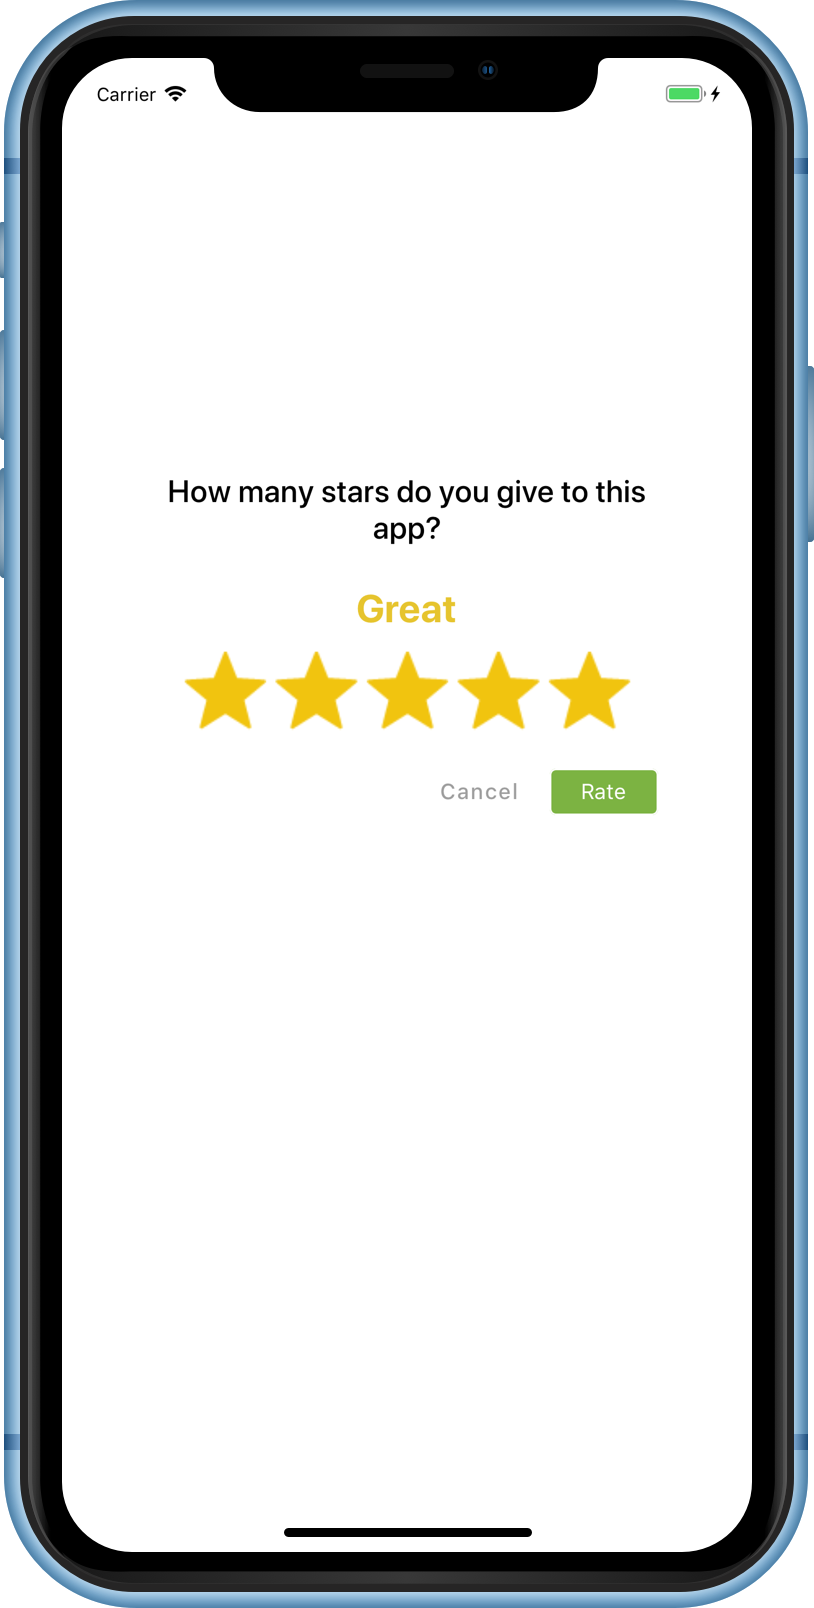
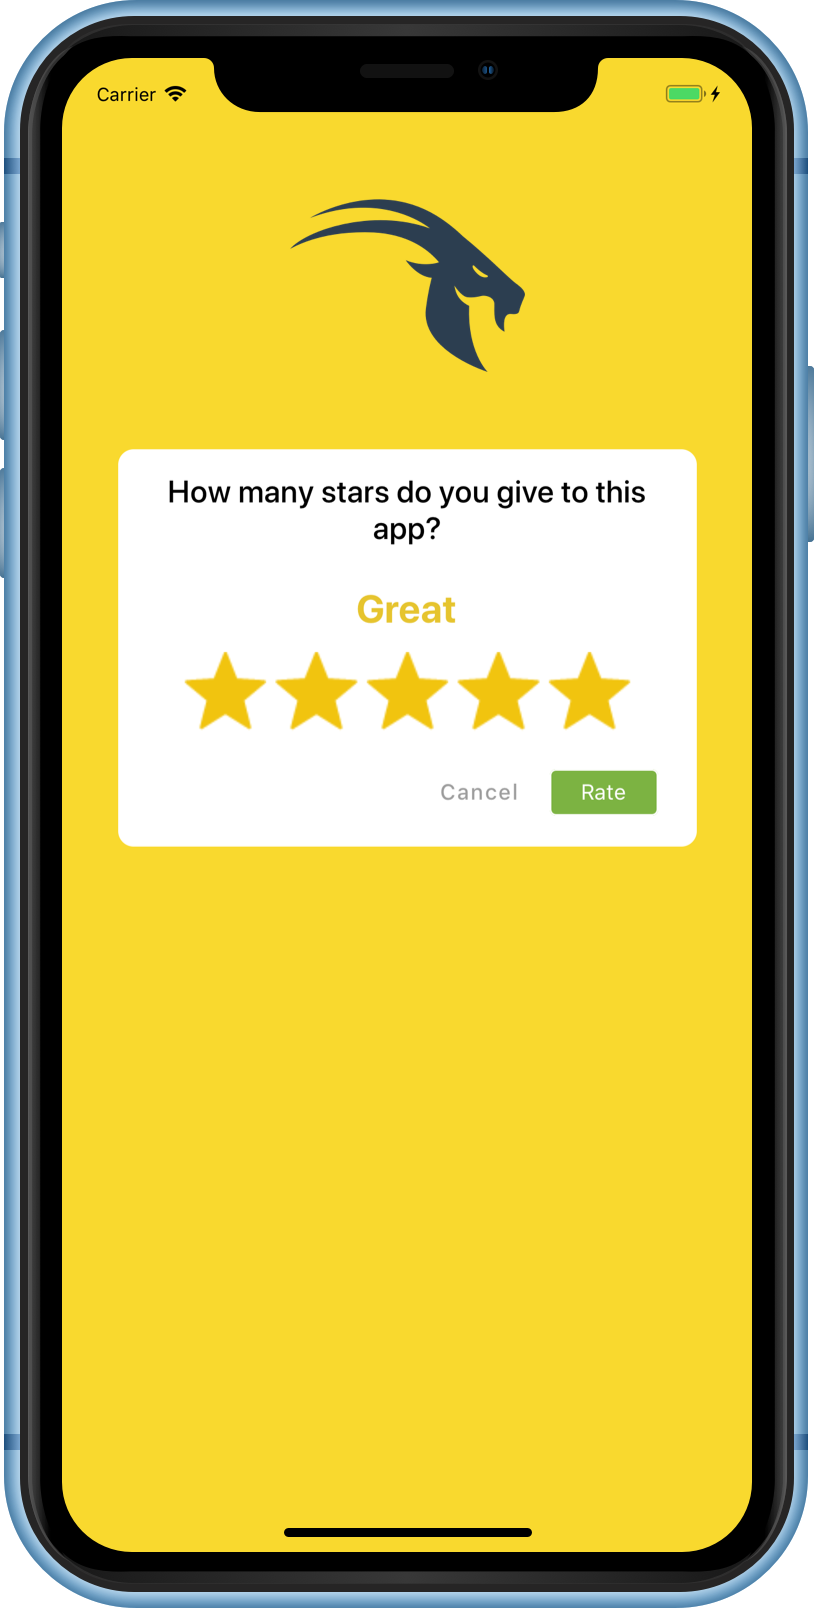
screenshoot changed & readme fix

diff --git a/README.md b/README.md
@@ -55,8 +55,19 @@ $ yarn add react-native-store-rating
 ## Usage
 Users are presented with a modal allowing them to choose amount of stars which is defined with `count` props.
 
-After prompting rate users redirect to App store or Google Market, if they give more then stars which is defined on `commentOpenRating`, otherwise comment pop up will open and allow them to write a review.
+The star rate taken from the users is compared to the value defined in "commentOpenRating". If this value is greater than the value of "commentOpenRating", the user is directed to the App store or Google Play Store. If it is equal and smaller, comment popup will be opened and users will be allowed to type comment.
 
+`Example: let's say we defined 3 to commentOpenRating prop`
+```javascript
+<RateModal
+	commentOpenRating={3}
+	// ... props
+/>
+```
+
+`User redirect to App Store or Google Play Store when the given star rate is greater then 3.`
+
+`Comment modal will be opened if the given star rate equal or less then 3.`
 
 
 ## Example
@@ -83,14 +94,14 @@ export default class example extends Component {
                     backgroundColor: '#000',
                     paddingHorizontal: 30,
                 }}
-                ratingChange={(e: number) => {
+                ratingOnChange={(e: number) => {
                     console.log('change rating', e);
                 }}
                 onClosed={() => {
                     console.log('pressed cancel button...')
                 }}
                 sendContactUsForm={(state: object) => {
-                    // object = {
+                    // state = {
                     // 	isModalOpen: true,
                     // 	rating: 3,
                     // 	review: "Lorem ipsum dolor sit amet...",
@@ -118,29 +129,21 @@ export default class example extends Component {
 | **defaulRating** | `number` | If no number set, it will determine 3 stars rating.               |  `5` | &nbsp;&nbsp; false
 | **showRating**      | `boolean` | Shows rating on modal. | ` true`   | &nbsp;&nbsp; false
 | **sendBtnText** | `string`  | The text of send button. | `"Send"` |  &nbsp;&nbsp; false
-| **placeHolderText** | `string` | The placeholder text. | `"You can write your comments here"` | &nbsp;&nbsp; false
-| **transparent** |`string` | ? | `true` | &nbsp;&nbsp; false
+| **placeHolderText** | `string` | User review modal placeholder text. | `"You can write your comments here"` | &nbsp;&nbsp; false
+| **transparent** |`boolean` | Background style | `true` | &nbsp;&nbsp; false
 | **reviews** | `array` | The array of rating title. | `['Terrible', 'Bad', 'Okay', 'Good', 'Great']` | &nbsp;&nbsp; false
-| **nonComment** | `string`  | ? | `Please specify your opinion.` | &nbsp;&nbsp; false
-| **androidUrl** | `string`  |  <br> `example: `'market://details?id=${APP_PACKAGE_NAME}'| `? ` | &nbsp;&nbsp; false
-| **iosUrl** | `string`  | ? | `?` | &nbsp;&nbsp; false
+| **nonComment** | `string`  | User review comment box validation text | `"Please specify your opinion."` | &nbsp;&nbsp; false
 | **isModalOpen** | `boolean`  | Control if the modal open or not. | `false` | &nbsp;&nbsp; false
 | **commentOpenRating** | `number`  | ? | `3` | &nbsp;&nbsp; false
-| **style** | `Object`  | An object containing the styles objects to style the modal. | `?` | &nbsp;&nbsp; false
-| **ratingOnChange** | `Function`  | Function  fired when the rating has changed.| `?` | &nbsp;&nbsp; false
-| **onClosed** | `Function`  | Function fired when the modal has closed.| `?` | &nbsp;&nbsp; false
-| **sendContactUsForm** | `Function`  | ?| `?` | &nbsp;&nbsp; false
-
+| **style** | `Object`  | An object containing the styles objects to style the modal. | `example:`<br>`{ backgroundColor: #000, paddingHorizontal: 30 }` | &nbsp;&nbsp; false
+| **ratingOnChange** | `Function`  | Function fired when the rating has changed.| `return: number` | &nbsp;&nbsp; false
+| **onClosed** | `Function`  | Function fired when the modal has closed.| `console.warn('pressed cancel button...')` | &nbsp;&nbsp; false
+| **sendContactUsForm** | `Function`  | Read component state and function fired when send bottom click | `{ isModalOpen: true, rating: 3, review: "Lorem ipsum dolor sit amet...", reviewError:false, showContactForm:true }` | &nbsp;&nbsp; true
+| **androidUrl** | `string`  | Google Play Store App Url <br> `market://details?id=${APP_PACKAGE_NAME}` | | &nbsp;&nbsp; true
+| **iosUrl** | `string`  | Apple ITunes App Url <br> `itms-apps://itunes.apple.com/app/${APP_ID}`| | &nbsp;&nbsp; true
 <br/>
 <br/>
 
-#### Package Names (Google Play & Android) and Bundle Identifiers:
-
-We recommend to followings, if you want to keep package name and Bundle Identifier.
-
-- All lowercase letters
-- No numbers
-- Use reverse domain style: com.website.appname
 
 #### Notes
 
